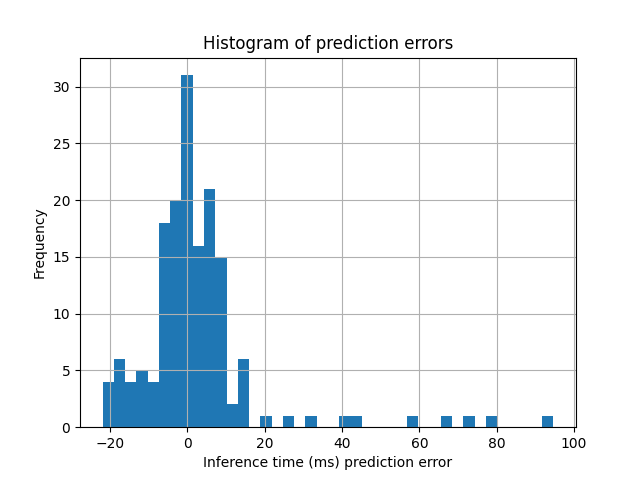
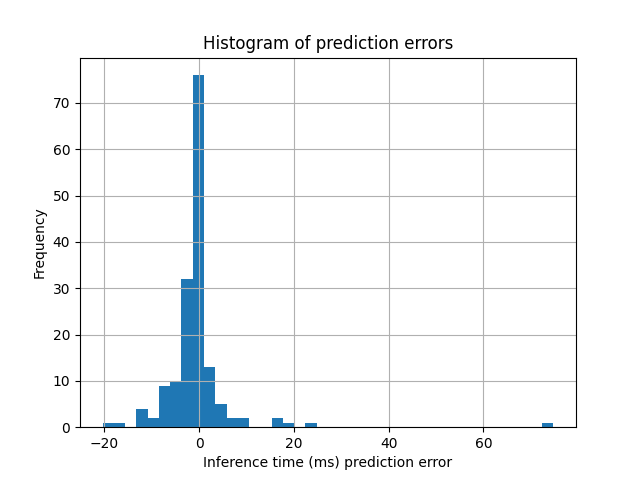
add 3 models, with hyper param tuning (when possible)

diff --git a/Analysis/hyper_param_opt.py b/Analysis/hyper_param_opt.py
@@ -1,77 +1,24 @@
-import random
-
 import numpy as np
-from sklearn import linear_model, svm, ensemble
-from sklearn.experimental import enable_halving_search_cv
-from sklearn.model_selection import HalvingRandomSearchCV
+from sklearn import linear_model
+from sklearn.model_selection import RandomizedSearchCV
 import scipy
 from scipy.stats import randint
 from sklearn.neural_network import MLPRegressor
 
 
-def tune_lr(X_train, y_train, seed=42, verbose=1, n_jobs=8):
-    lr = linear_model.LogisticRegression()
-    np.random.seed(seed)
-    compatible = {
-        "newton-cg": ["l2", "none"],
-        "lbfgs": ["l2", "none"],
-        "liblinear": ["l1", "l2"],
-        "sag": ["l2", "none"],
-        "saga": ["elasticnet", "l1", "l2", "none"]
-    }
-    best_params = None
-    best_score = 0
-    for k, v in compatible.items():
-        param_distributions = {
-            "solver": [k],
-            "penalty": v,
-            "C": scipy.stats.uniform(loc=0.0001, scale=10),  # exclude 0
-            "l1_ratio": scipy.stats.uniform()  # must be optimized otherwise we can't finetune l1 penalty properly
-        }
-        search = HalvingRandomSearchCV(lr,
-                                       param_distributions,
-                                       random_state=seed,
-                                       verbose=verbose,
-                                       n_jobs=n_jobs).fit(X_train, y_train)
-        if search.best_score_ > best_score:
-            best_score = search.best_score_
-            best_params = search.best_params_
-    return best_params
-
-
-def tune_svm(X_train, y_train, seed=42, verbose=1, n_jobs=8):
-    sv = svm.SVC(random_state=seed)
+def tune_elastic_net(X_train, y_train, seed=42, verbose=1, n_jobs=8):
+    ridge = linear_model.ElasticNet(random_state=seed)
     np.random.seed(seed)
     param_distributions = {
-        "C": scipy.stats.uniform(loc=0.0001, scale=10),  # exclude 0
-        "kernel": ["linear", "poly", "rbf", "sigmoid"],  # removed 'precomputed' option because:
-        # https://stackoverflow.com/questions/36306555/scikit-learn-grid-search-with-svm-regression
-        "gamma": scipy.stats.uniform()
+        "alpha": scipy.stats.uniform(0.0001, 1000.0),
+        "l1_ratio": scipy.stats.uniform(),
+        "selection": ["random", "cyclic"],
+        "max_iter": randint(100, 100000)
     }
-    search = HalvingRandomSearchCV(sv,
-                                   param_distributions,
-                                   random_state=seed,
-                                   verbose=verbose,
-                                   n_jobs=n_jobs).fit(X_train, y_train)
-    return search.best_params_
-
-
-def tune_rf(X_train, y_train, seed=42, verbose=1, n_jobs=8):
-    rf = ensemble.RandomForestClassifier(random_state=seed)
-    np.random.seed(seed)
-    param_distributions = {
-                          "bootstrap": [True, False],
-                          "max_depth": randint(1, len(y_train)),
-                          "max_features": scipy.stats.uniform(),
-                          "min_samples_leaf": scipy.stats.uniform(0, 0.5),
-                          "min_samples_split": scipy.stats.uniform(),
-                          "n_estimators": randint(10, 1000)
-    }
-    search = HalvingRandomSearchCV(rf,
-                                   param_distributions,
-                                   random_state=seed,
-                                   n_jobs=n_jobs,
-                                   verbose=verbose)
+    search = RandomizedSearchCV(ridge,
+                                param_distributions,
+                                n_jobs=n_jobs,
+                                verbose=verbose)
     search.fit(X_train, y_train)
     return search.best_params_
 
@@ -80,17 +27,17 @@ def tune_mlp(X_train, y_train, seed=42, verbose=1, n_jobs=8):
     mlp = MLPRegressor(random_state=seed)
     np.random.seed(seed)
     param_distributions = {
-                          "hidden_layer_sizes": randint(10, 500),
-                          "max_iter": randint(200, 500),
-                          "activation": ["identity", "logistic", "tanh", "relu"],
-                          "solver": ["lbfgs", "sgd", "adam"],
-                          "learning_rate": ["constant", "invscaling", "adaptive"],
-                          "learning_rate_init": scipy.stats.uniform(0.0001, 0.01)
+        "hidden_layer_sizes": randint(10, 500),
+        "max_iter": randint(200, 500),
+        "activation": ["identity", "logistic", "tanh", "relu"],
+        "solver": ["lbfgs", "sgd", "adam"],
+        "learning_rate": ["constant", "invscaling", "adaptive"],
+        "learning_rate_init": scipy.stats.uniform(0.0001, 0.01)
     }
-    search = HalvingRandomSearchCV(mlp,
-                                   param_distributions,
-                                   random_state=seed,
-                                   verbose=verbose,
-                                   n_jobs=n_jobs)
+    search = RandomizedSearchCV(mlp,
+                                param_distributions,
+                                random_state=seed,
+                                verbose=verbose,
+                                n_jobs=n_jobs)
     search.fit(X_train, y_train)
     return search.best_params_

diff --git a/Analysis/ml_models.py b/Analysis/ml_models.py
@@ -6,30 +6,23 @@ from sklearn.preprocessing import OneHotEncoder
 from sklearn.metrics import r2_score
 
 from Analysis.anova import load_experiment_data, visualize_prediction_errors
-from Analysis.hyper_param_opt import tune_mlp
+from Analysis.hyper_param_opt import tune_mlp, tune_elastic_net
 
 
-def mlp_regression(X_train,
-                   y_train,
-                   hidden_layer_sizes=(100,),
-                   max_iter=200,
-                   activation="relu",
-                   solver="adam",
-                   learning_rate="constant",
-                   learning_rate_init=0.001):
-    regr = MLPRegressor(random_state=1,
-                        hidden_layer_sizes=hidden_layer_sizes,
-                        max_iter=max_iter,
-                        activation=activation,
-                        solver=solver,
-                        learning_rate=learning_rate,
-                        learning_rate_init=learning_rate_init)
+def mlp_regression(X_train, y_train, **kwargs):
+    regr = MLPRegressor(random_state=1, **kwargs)
     regr.fit(X_train, y_train)
     return regr
 
 
 def linear_regression(X_train, y_train):
     regr = linear_model.LinearRegression()
+    regr.fit(X=X_train, y=y_train)
+    return regr
+
+
+def elastic_net(X_train, y_train, **kwargs):
+    regr = linear_model.ElasticNet(**kwargs, random_state=1)
     regr.fit(X=X_train, y=y_train)
     return regr
 
@@ -45,26 +38,34 @@ def get_predictions(regr, X_test):
     return y_pred
 
 
+def run_with_and_without_tuning(regr_train_func, tune_func, data):
+    X_train, X_test, y_train, y_test = data
+
+    # get r2_score for defualt hyper parameters
+    regr = regr_train_func(X_train=X_train, y_train=y_train)
+    y_pred = get_predictions(regr, X_test)
+    default_score = r2_score(y_true=y_test, y_pred=y_pred)
+    tuned_score = None
+
+    # find better hyper parameters, get r2_score for regressor trained with these params
+    if tune_func is not None:
+        best = tune_func(X_train, y_train, seed=42, verbose=1, n_jobs=8)
+        regr = regr_train_func(X_train=X_train, y_train=y_train, **best)
+        y_pred = get_predictions(regr, X_test)
+        tuned_score = r2_score(y_true=y_test, y_pred=y_pred)
+    return default_score, tuned_score
+
+
 if __name__ == "__main__":
     df = load_experiment_data()
     X, y = split_data(df)
     ohe = OneHotEncoder()
     ohe_X = ohe.fit_transform(X)
-    X_train, X_test, y_train, y_test = train_test_split(ohe_X, y, random_state=1)
-    # best = tune_mlp(X_train, y_train, seed=42, verbose=1, n_jobs=8)
-    # print(best)
-    # regr = mlp_regression(X_train=X_train,
-    #                       y_train=y_train,
-    #                       # hidden_layer_sizes=best["hidden_layer_sizes"],
-    #                       # max_iter=best["max_iter"],
-    #                       # activation=best["activation"],
-    #                       # solver=best["solver"],
-    #                       # learning_rate=best["learning_rate"],
-    #                       # learning_rate_init=best["learning_rate_init"]
-    #                       )
+    data = train_test_split(ohe_X, y, random_state=1)
+    regr_train_funcs = [linear_regression, elastic_net, mlp_regression]
+    tune_funcs = [None, tune_elastic_net, tune_mlp]
+    for regr_train_func, tune_func in zip(regr_train_funcs, tune_funcs):
+        default_score, tuned_score = run_with_and_without_tuning(regr_train_func, tune_func, data)
+        print("{} default and tuned r_scores: {}, {}".format(regr_train_func.__name__, default_score, tuned_score))
 
-    regr = linear_regression(X_train, y_train)
-    y_pred = get_predictions(regr, X_test)
-    print(r2_score(y_true=y_test, y_pred=y_pred))
-
-    visualize_prediction_errors(y_pred, y_test, file_name_to_save="plots/mlp_prediction_error.png")
+    # visualize_prediction_errors(y_pred, y_test, file_name_to_save="plots/mlp_prediction_error.png")
